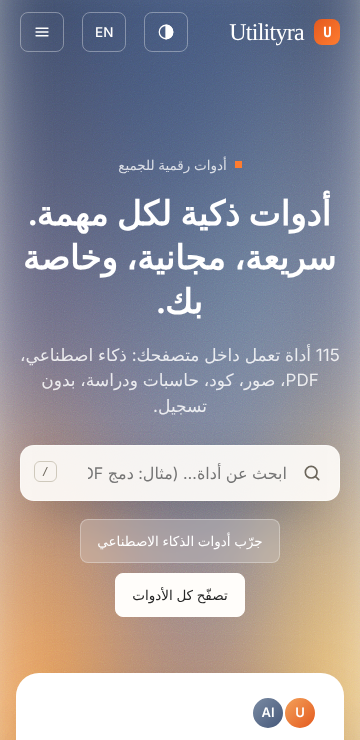
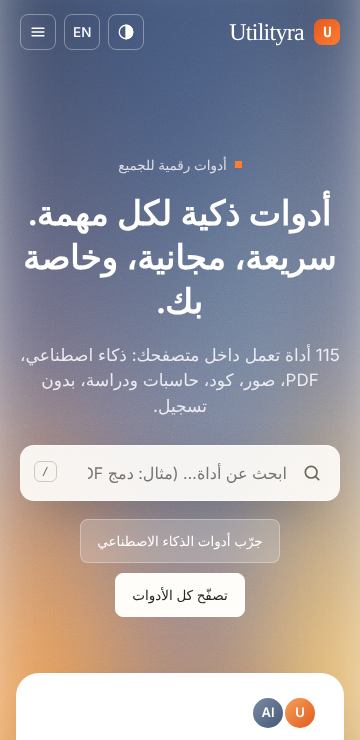
Fix admin login (session cookie), AI provider transparency, offline SW (#14)
* Fix admin login cookie never set; add provider transparency, creator knowledge, offline SW, audit tests

Claude-Session: https://claude.ai/code/session_01XFyGnZQLbsRMmR5Q2gq1Am

* Fix 320px header overflow

Claude-Session: https://claude.ai/code/session_01XFyGnZQLbsRMmR5Q2gq1Am

---------

Changed region(s): [[0.1222, 0.0, 0.3667, 0.0622], [0.3972, 0.0311, 0.4889, 0.0622]]

diff --git a/worker/src/knowledge.generated.js b/worker/src/knowledge.generated.js
@@ -1,2 +1,2 @@
 // Generated by build.mjs - do not edit.
-export const SITE_KNOWLEDGE = "Utilityra facts: free bilingual (Arabic/English) toolbox with 115 tools, each at /tools/<id>/ (categories at /category/<id>/). Most tools run in the browser; AI tools call the server. Admin panel at /admin/ (owner only).\nTOOL CATALOG (id | English | Arabic | category). When a tool fits the user's need, recommend it with its link /tools/<id>/.\nai-assistant | Utilityra AI Assistant | مساعد Utilityra الذكي | AI Tools\nai-summarizer | AI Text Summarizer | ملخّص النصوص بالذكاء الاصطناعي | AI Tools\nai-paraphraser | AI Paraphraser & Tone Changer | إعادة صياغة النصوص | AI Tools\nai-translator | AI Translator | مترجم ذكي | AI Tools\nai-grammar-fixer | AI Grammar & Spelling Fixer | المصحّح اللغوي | AI Tools\nai-email-writer | AI Email Writer | كاتب الرسائل الإلكترونية | AI Tools\nai-code-explainer | AI Code Explainer | شرح الكود | AI Tools\nai-code-debugger | AI Code Debugger | مصلّح الأخطاء البرمجية | AI Tools\nai-regex-generator | AI Regex Generator | مولّد Regex بالوصف | AI Tools\nai-sql-generator | AI SQL Query Generator | مولّد استعلامات SQL | AI Tools\nexcel-formula-helper | AI Excel Formula Helper | مساعد معادلات Excel | AI Tools\nai-quiz-generator | AI Quiz Generator | مولّد الاختبارات | AI Tools\nai-study-explainer | AI Simple Explainer | مبسّط الشرح الدراسي | AI Tools\nai-blog-writer | AI Blog Post Writer | كاتب المقالات | AI Tools\nai-seo-titles | AI SEO Titles & Descriptions | مولّد عناوين وأوصاف SEO | AI Tools\nai-social-posts | AI Social Post Writer | كاتب منشورات التواصل | AI Tools\nai-resume-writer | AI Resume & Cover Letter | كاتب السيرة وخطاب التقديم | AI Tools\nai-product-description | AI Product Description | وصف المنتجات | AI Tools\nai-name-ideas | AI Name Ideas | أفكار الأسماء | AI Tools\nword-counter | Word & Character Counter | عدّاد الكلمات والحروف | Text & Writing\ncase-converter | Case Converter | تحويل حالة الأحرف | Text & Writing\ntext-cleaner | Text Cleaner | منظّف النصوص | Text & Writing\nline-sorter | Line Sorter | ترتيب الأسطر | Text & Writing\nduplicate-line-remover | Duplicate Line Remover | حذف الأسطر المكررة | Text & Writing\nfind-replace | Find & Replace | بحث واستبدال | Text & Writing\ntext-compare | Text Compare (Diff) | مقارنة نصين | Text & Writing\nword-frequency | Word Frequency Counter | تكرار الكلمات | Text & Writing\nreading-time | Reading Time Calculator | وقت القراءة | Text & Writing\nlorem-ipsum-generator | Lorem Ipsum Generator | مولّد نص تجريبي | Text & Writing\nslug-generator | Slug Generator | مولّد الروابط (Slug) | Text & Writing\narabic-diacritics-remover | Arabic Diacritics Remover | حذف التشكيل العربي | Text & Writing\nnumber-to-words | Number to Words | تفقيط الأرقام | Text & Writing\nmarkdown-preview | Markdown Preview | معاينة Markdown | Text & Writing\ntext-to-speech | Text to Speech | تحويل النص إلى صوت | Text & Writing\njson-formatter | JSON Formatter & Validator | منسّق JSON ومدقّقه | Developer Tools\njson-diff | JSON Diff | مقارنة JSON | Developer Tools\njson-to-xml | JSON to XML | JSON إلى XML | Developer Tools\njson-to-csv | JSON to CSV | JSON إلى CSV | Developer Tools\ncsv-json-converter | CSV to JSON | CSV إلى JSON | Developer Tools\ncsv-validator | CSV Validator | مدقّق CSV | Developer Tools\ncsv-to-markdown | CSV to Markdown Table | CSV إلى جدول Markdown | Developer Tools\nmarkdown-table-generator | Markdown Table Generator | مولّد جداول Markdown | Developer Tools\nsql-formatter | SQL Formatter | منسّق SQL | Developer Tools\nxml-formatter | XML Formatter | منسّق XML | Developer Tools\nhtml-formatter | HTML Formatter | منسّق HTML | Developer Tools\ncss-formatter | CSS Formatter & Minifier | منسّق CSS | Developer Tools\nregex-tester | Regex Tester | مختبر Regex | Developer Tools\njwt-decoder | JWT Decoder | فك تشفير JWT | Developer Tools\nbase64-encoder-decoder | Base64 Encoder / Decoder | ترميز Base64 | Developer Tools\nurl-encoder-decoder | URL Encoder / Decoder | ترميز الروابط | Developer Tools\nurl-parser | URL Parser | محلّل الروابط | Developer Tools\nhtml-entities | HTML Entities Encoder | رموز HTML | Developer Tools\nuuid-generator | UUID Generator | مولّد UUID | Developer Tools\ncron-validator | Cron Expression Validator | مدقّق Cron | Developer Tools\ntimestamp-converter | Unix Timestamp Converter | محوّل Timestamp | Developer Tools\npassword-generator | Password Generator | مولّد كلمات المرور | Security & Hashing\npassword-strength-checker | Password Strength Checker | فاحص قوة كلمة المرور | Security & Hashing\nsha256-hash | Hash Generator (SHA) | مولّد البصمات (SHA) | Security & Hashing\nrandom-number-generator | Random Number Generator | مولّد أرقام عشوائية | Security & Hashing\nbinary-hex-converter | Text ↔ Binary / Hex | محوّل ثنائي وست عشري | Security & Hashing\nnumber-base-converter | Number Base Converter | محوّل أنظمة العد | Security & Hashing\nmeta-tag-generator | Meta Tag Generator | مولّد وسوم Meta | SEO & Web\nrobots-txt-generator | robots.txt Generator | مولّد robots.txt | SEO & Web\nsitemap-generator | Sitemap Generator | مولّد sitemap.xml | SEO & Web\nserp-preview | Google SERP Preview | معاينة نتيجة جوجل | SEO & Web\nutm-builder | UTM Link Builder | منشئ روابط UTM | SEO & Web\npercentage-calculator | Percentage Calculator | حاسبة النسبة المئوية | Calculators & Finance\nvat-calculator | VAT Calculator | حاسبة ضريبة القيمة المضافة | Calculators & Finance\ndiscount-calculator | Discount Calculator | حاسبة الخصم | Calculators & Finance\nhourly-pay-calculator | Hourly Pay Calculator | حاسبة الأجر بالساعة | Calculators & Finance\nloan-calculator | Loan Calculator | حاسبة القروض | Calculators & Finance\ncompound-interest | Compound Interest Calculator | حاسبة الفائدة المركبة | Calculators & Finance\nbmi-calculator | BMI Calculator | حاسبة مؤشر كتلة الجسم | Calculators & Finance\nscientific-calculator | Scientific Calculator | الآلة الحاسبة العلمية | Calculators & Finance\nstatistics-calculator | Statistics Calculator | حاسبة الإحصاء | Calculators & Finance\ngrade-calculator | Grade Calculator | حاسبة الدرجات | Students & Study\nweighted-grade-calculator | Weighted Grade Calculator | حاسبة الدرجات الموزونة | Students & Study\ngpa-calculator | GPA Calculator | حاسبة المعدل التراكمي | Students & Study\nstudy-plan-generator | Study Plan Generator | مولّد خطة المذاكرة | Students & Study\nflashcard-maker | Flashcard Maker | بطاقات المراجعة | Students & Study\ncitation-formatter | Citation Formatter | منسّق المراجع | Students & Study\nunit-converter | Unit Converter | محوّل الوحدات | Converters & Time\nfile-size-converter | File Size Converter | محوّل أحجام الملفات | Converters & Time\ntimezone-converter | Time Zone Converter | محوّل المناطق الزمنية | Converters & Time\ndate-difference | Date Difference | الفرق بين تاريخين | Converters & Time\nage-calculator | Age Calculator | حاسبة العمر | Converters & Time\nhijri-converter | Hijri ↔ Gregorian Converter | محوّل التاريخ الهجري والميلادي | Converters & Time\npdf-merge | PDF Merger | دمج ملفات PDF | PDF & Files\npdf-split | PDF Splitter | تقسيم ملف PDF | PDF & Files\npdf-page-info | PDF Info | معلومات ملف PDF | PDF & Files\nimages-to-pdf | Images to PDF | تحويل الصور إلى PDF | PDF & Files\nfile-metadata-inspector | File Metadata Inspector | فاحص بيانات الملف | PDF & Files\nimage-compressor | Image Compressor | ضغط الصور | Images\nimage-resizer | Image Resizer | تغيير مقاس الصور | Images\nimage-converter | Image Format Converter | تحويل صيغ الصور | Images\nimage-cropper | Image Cropper | قص الصور | Images\nimage-rotate-flip | Rotate & Flip Image | تدوير الصور وقلبها | Images\nimage-filter-studio | Image Filter Studio | مرشحات الصور | Images\nimage-watermark | Image Watermark | علامة مائية للصور | Images\nimage-to-data-uri | Image to Data URI | صورة إلى Data URI | Images\ncolor-converter | Color Converter | محوّل الألوان | Design & Color\ngradient-generator | CSS Gradient Generator | مولّد التدرجات | Design & Color\nbox-shadow-generator | Box Shadow Generator | مولّد الظلال | Design & Color\nreverse-text | Reverse Text | عكس النص | Text & Writing\nhtml-preview | HTML Live Preview | معاينة HTML | Developer Tools\napi-tester | API Tester | مختبر واجهات API | Developer Tools\ncontrast-checker | Color Contrast Checker | فاحص تباين الألوان | Design & Color\nfavicon-generator | Favicon Generator | مولّد أيقونة الموقع | Design & Color\npdf-rotate | PDF Rotator | تدوير صفحات PDF | PDF & Files\npdf-to-text | PDF to Text | استخراج نص من PDF | PDF & Files\nseo-auditor | SEO Page Auditor | فاحص السيو للصفحة | SEO & Web\nsecurity-header-checker | Security Headers Checker | فاحص ترويسات الأمان | SEO & Web\npage-speed-checker | Page Speed Checker | فاحص سرعة الصفحة | SEO & Web\naccessibility-checker | Accessibility Checker | فاحص الوصولية | SEO & Web\nqr-code-generator | QR Code Generator | مولّد رمز QR | Design & Color\n\nCHANGELOG / HOW THE SITE EVOLVED:\n";
+export const SITE_KNOWLEDGE = "ABOUT THE SITE OWNER: Utilityra was created by Taha (GitHub: Taha8880, repository Taha8880/Utilityra). Contact page: /contact/. Built as static pages generated by build.mjs plus a Cloudflare Worker (AI gateway, URL inspector, admin API). Do not invent further personal details about the creator.\nUtilityra facts: free bilingual (Arabic/English) toolbox with 115 tools, each at /tools/<id>/ (categories at /category/<id>/). Most tools run in the browser; AI tools call the server. Admin panel at /admin/ (owner only).\nTOOL CATALOG (id | English | Arabic | category). When a tool fits the user's need, recommend it with its link /tools/<id>/.\nai-assistant | Utilityra AI Assistant | مساعد Utilityra الذكي | AI Tools\nai-summarizer | AI Text Summarizer | ملخّص النصوص بالذكاء الاصطناعي | AI Tools\nai-paraphraser | AI Paraphraser & Tone Changer | إعادة صياغة النصوص | AI Tools\nai-translator | AI Translator | مترجم ذكي | AI Tools\nai-grammar-fixer | AI Grammar & Spelling Fixer | المصحّح اللغوي | AI Tools\nai-email-writer | AI Email Writer | كاتب الرسائل الإلكترونية | AI Tools\nai-code-explainer | AI Code Explainer | شرح الكود | AI Tools\nai-code-debugger | AI Code Debugger | مصلّح الأخطاء البرمجية | AI Tools\nai-regex-generator | AI Regex Generator | مولّد Regex بالوصف | AI Tools\nai-sql-generator | AI SQL Query Generator | مولّد استعلامات SQL | AI Tools\nexcel-formula-helper | AI Excel Formula Helper | مساعد معادلات Excel | AI Tools\nai-quiz-generator | AI Quiz Generator | مولّد الاختبارات | AI Tools\nai-study-explainer | AI Simple Explainer | مبسّط الشرح الدراسي | AI Tools\nai-blog-writer | AI Blog Post Writer | كاتب المقالات | AI Tools\nai-seo-titles | AI SEO Titles & Descriptions | مولّد عناوين وأوصاف SEO | AI Tools\nai-social-posts | AI Social Post Writer | كاتب منشورات التواصل | AI Tools\nai-resume-writer | AI Resume & Cover Letter | كاتب السيرة وخطاب التقديم | AI Tools\nai-product-description | AI Product Description | وصف المنتجات | AI Tools\nai-name-ideas | AI Name Ideas | أفكار الأسماء | AI Tools\nword-counter | Word & Character Counter | عدّاد الكلمات والحروف | Text & Writing\ncase-converter | Case Converter | تحويل حالة الأحرف | Text & Writing\ntext-cleaner | Text Cleaner | منظّف النصوص | Text & Writing\nline-sorter | Line Sorter | ترتيب الأسطر | Text & Writing\nduplicate-line-remover | Duplicate Line Remover | حذف الأسطر المكررة | Text & Writing\nfind-replace | Find & Replace | بحث واستبدال | Text & Writing\ntext-compare | Text Compare (Diff) | مقارنة نصين | Text & Writing\nword-frequency | Word Frequency Counter | تكرار الكلمات | Text & Writing\nreading-time | Reading Time Calculator | وقت القراءة | Text & Writing\nlorem-ipsum-generator | Lorem Ipsum Generator | مولّد نص تجريبي | Text & Writing\nslug-generator | Slug Generator | مولّد الروابط (Slug) | Text & Writing\narabic-diacritics-remover | Arabic Diacritics Remover | حذف التشكيل العربي | Text & Writing\nnumber-to-words | Number to Words | تفقيط الأرقام | Text & Writing\nmarkdown-preview | Markdown Preview | معاينة Markdown | Text & Writing\ntext-to-speech | Text to Speech | تحويل النص إلى صوت | Text & Writing\njson-formatter | JSON Formatter & Validator | منسّق JSON ومدقّقه | Developer Tools\njson-diff | JSON Diff | مقارنة JSON | Developer Tools\njson-to-xml | JSON to XML | JSON إلى XML | Developer Tools\njson-to-csv | JSON to CSV | JSON إلى CSV | Developer Tools\ncsv-json-converter | CSV to JSON | CSV إلى JSON | Developer Tools\ncsv-validator | CSV Validator | مدقّق CSV | Developer Tools\ncsv-to-markdown | CSV to Markdown Table | CSV إلى جدول Markdown | Developer Tools\nmarkdown-table-generator | Markdown Table Generator | مولّد جداول Markdown | Developer Tools\nsql-formatter | SQL Formatter | منسّق SQL | Developer Tools\nxml-formatter | XML Formatter | منسّق XML | Developer Tools\nhtml-formatter | HTML Formatter | منسّق HTML | Developer Tools\ncss-formatter | CSS Formatter & Minifier | منسّق CSS | Developer Tools\nregex-tester | Regex Tester | مختبر Regex | Developer Tools\njwt-decoder | JWT Decoder | فك تشفير JWT | Developer Tools\nbase64-encoder-decoder | Base64 Encoder / Decoder | ترميز Base64 | Developer Tools\nurl-encoder-decoder | URL Encoder / Decoder | ترميز الروابط | Developer Tools\nurl-parser | URL Parser | محلّل الروابط | Developer Tools\nhtml-entities | HTML Entities Encoder | رموز HTML | Developer Tools\nuuid-generator | UUID Generator | مولّد UUID | Developer Tools\ncron-validator | Cron Expression Validator | مدقّق Cron | Developer Tools\ntimestamp-converter | Unix Timestamp Converter | محوّل Timestamp | Developer Tools\npassword-generator | Password Generator | مولّد كلمات المرور | Security & Hashing\npassword-strength-checker | Password Strength Checker | فاحص قوة كلمة المرور | Security & Hashing\nsha256-hash | Hash Generator (SHA) | مولّد البصمات (SHA) | Security & Hashing\nrandom-number-generator | Random Number Generator | مولّد أرقام عشوائية | Security & Hashing\nbinary-hex-converter | Text ↔ Binary / Hex | محوّل ثنائي وست عشري | Security & Hashing\nnumber-base-converter | Number Base Converter | محوّل أنظمة العد | Security & Hashing\nmeta-tag-generator | Meta Tag Generator | مولّد وسوم Meta | SEO & Web\nrobots-txt-generator | robots.txt Generator | مولّد robots.txt | SEO & Web\nsitemap-generator | Sitemap Generator | مولّد sitemap.xml | SEO & Web\nserp-preview | Google SERP Preview | معاينة نتيجة جوجل | SEO & Web\nutm-builder | UTM Link Builder | منشئ روابط UTM | SEO & Web\npercentage-calculator | Percentage Calculator | حاسبة النسبة المئوية | Calculators & Finance\nvat-calculator | VAT Calculator | حاسبة ضريبة القيمة المضافة | Calculators & Finance\ndiscount-calculator | Discount Calculator | حاسبة الخصم | Calculators & Finance\nhourly-pay-calculator | Hourly Pay Calculator | حاسبة الأجر بالساعة | Calculators & Finance\nloan-calculator | Loan Calculator | حاسبة القروض | Calculators & Finance\ncompound-interest | Compound Interest Calculator | حاسبة الفائدة المركبة | Calculators & Finance\nbmi-calculator | BMI Calculator | حاسبة مؤشر كتلة الجسم | Calculators & Finance\nscientific-calculator | Scientific Calculator | الآلة الحاسبة العلمية | Calculators & Finance\nstatistics-calculator | Statistics Calculator | حاسبة الإحصاء | Calculators & Finance\ngrade-calculator | Grade Calculator | حاسبة الدرجات | Students & Study\nweighted-grade-calculator | Weighted Grade Calculator | حاسبة الدرجات الموزونة | Students & Study\ngpa-calculator | GPA Calculator | حاسبة المعدل التراكمي | Students & Study\nstudy-plan-generator | Study Plan Generator | مولّد خطة المذاكرة | Students & Study\nflashcard-maker | Flashcard Maker | بطاقات المراجعة | Students & Study\ncitation-formatter | Citation Formatter | منسّق المراجع | Students & Study\nunit-converter | Unit Converter | محوّل الوحدات | Converters & Time\nfile-size-converter | File Size Converter | محوّل أحجام الملفات | Converters & Time\ntimezone-converter | Time Zone Converter | محوّل المناطق الزمنية | Converters & Time\ndate-difference | Date Difference | الفرق بين تاريخين | Converters & Time\nage-calculator | Age Calculator | حاسبة العمر | Converters & Time\nhijri-converter | Hijri ↔ Gregorian Converter | محوّل التاريخ الهجري والميلادي | Converters & Time\npdf-merge | PDF Merger | دمج ملفات PDF | PDF & Files\npdf-split | PDF Splitter | تقسيم ملف PDF | PDF & Files\npdf-page-info | PDF Info | معلومات ملف PDF | PDF & Files\nimages-to-pdf | Images to PDF | تحويل الصور إلى PDF | PDF & Files\nfile-metadata-inspector | File Metadata Inspector | فاحص بيانات الملف | PDF & Files\nimage-compressor | Image Compressor | ضغط الصور | Images\nimage-resizer | Image Resizer | تغيير مقاس الصور | Images\nimage-converter | Image Format Converter | تحويل صيغ الصور | Images\nimage-cropper | Image Cropper | قص الصور | Images\nimage-rotate-flip | Rotate & Flip Image | تدوير الصور وقلبها | Images\nimage-filter-studio | Image Filter Studio | مرشحات الصور | Images\nimage-watermark | Image Watermark | علامة مائية للصور | Images\nimage-to-data-uri | Image to Data URI | صورة إلى Data URI | Images\ncolor-converter | Color Converter | محوّل الألوان | Design & Color\ngradient-generator | CSS Gradient Generator | مولّد التدرجات | Design & Color\nbox-shadow-generator | Box Shadow Generator | مولّد الظلال | Design & Color\nreverse-text | Reverse Text | عكس النص | Text & Writing\nhtml-preview | HTML Live Preview | معاينة HTML | Developer Tools\napi-tester | API Tester | مختبر واجهات API | Developer Tools\ncontrast-checker | Color Contrast Checker | فاحص تباين الألوان | Design & Color\nfavicon-generator | Favicon Generator | مولّد أيقونة الموقع | Design & Color\npdf-rotate | PDF Rotator | تدوير صفحات PDF | PDF & Files\npdf-to-text | PDF to Text | استخراج نص من PDF | PDF & Files\nseo-auditor | SEO Page Auditor | فاحص السيو للصفحة | SEO & Web\nsecurity-header-checker | Security Headers Checker | فاحص ترويسات الأمان | SEO & Web\npage-speed-checker | Page Speed Checker | فاحص سرعة الصفحة | SEO & Web\naccessibility-checker | Accessibility Checker | فاحص الوصولية | SEO & Web\nqr-code-generator | QR Code Generator | مولّد رمز QR | Design & Color\n\nCHANGELOG / HOW THE SITE EVOLVED:\n";

diff --git a/worker/src/index.js b/worker/src/index.js
@@ -56,8 +56,8 @@ export const _resetRate = () => buckets.clear();
 function corsHeaders(origin) {
   return origin ? { "access-control-allow-origin": origin, "access-control-allow-methods": "GET, POST, OPTIONS", "access-control-allow-headers": "content-type", "access-control-max-age": "86400", vary: "Origin" } : {};
 }
-function json(data, status = 200, origin = "") {
-  return new Response(JSON.stringify(data), { status, headers: { "content-type": "application/json; charset=utf-8", "cache-control": "no-store", "x-content-type-options": "nosniff", ...corsHeaders(origin) } });
+function json(data, status = 200, origin = "", extra = {}) {
+  return new Response(JSON.stringify(data), { status, headers: { "content-type": "application/json; charset=utf-8", "cache-control": "no-store", "x-content-type-options": "nosniff", ...corsHeaders(origin), ...extra } });
 }
 function allowedOrigin(request, env) {
   const origin = request.headers.get("origin");
@@ -195,11 +195,10 @@ export function providersFor(env) {
   return order.filter((k) => all[k][0]).map((k) => [k, all[k][1]]);
 }
 
-const sse = (chunks, sources = []) => new Response(new ReadableStream({ start(c) { const e = new TextEncoder(); if (sources.length) c.enqueue(e.encode(`data: ${JSON.stringify({ sources })}\n\n`)); for (const t of chunks) c.enqueue(e.encode(`data: ${JSON.stringify({ response: t })}\n\n`)); c.enqueue(e.encode("data: [DONE]\n\n")); c.close(); } }), { headers: { "content-type": "text/event-stream; charset=utf-8", "cache-control": "no-store", "x-content-type-options": "nosniff" } });
-function withSources(st, sources) {
-  if (!sources.length) return st;
+const sse = (chunks, sources = [], provider = "") => new Response(new ReadableStream({ start(c) { const e = new TextEncoder(); if (provider) c.enqueue(e.encode(`data: ${JSON.stringify({ provider })}\n\n`)); if (sources.length) c.enqueue(e.encode(`data: ${JSON.stringify({ sources })}\n\n`)); for (const t of chunks) c.enqueue(e.encode(`data: ${JSON.stringify({ response: t })}\n\n`)); c.enqueue(e.encode("data: [DONE]\n\n")); c.close(); } }), { headers: { "content-type": "text/event-stream; charset=utf-8", "cache-control": "no-store", "x-content-type-options": "nosniff" } });
+function withSources(st, sources, provider = "") {
   const e = new TextEncoder(); const r = st.getReader(); let sent = false;
-  return new ReadableStream({ async pull(c) { if (!sent) { sent = true; c.enqueue(e.encode(`data: ${JSON.stringify({ sources })}\n\n`)); return; } const { done, value } = await r.read(); if (done) c.close(); else c.enqueue(value); }, cancel() { r.cancel(); } });
+  return new ReadableStream({ async pull(c) { if (!sent) { sent = true; c.enqueue(e.encode(`data: ${JSON.stringify({ provider, ...(sources.length ? { sources } : {}) })}\n\n`)); return; } const { done, value } = await r.read(); if (done) c.close(); else c.enqueue(value); }, cancel() { r.cancel(); } });
 }
 async function cacheKey(body) {
   const raw = JSON.stringify([body.tool, body.message, body.options || {}, body.lang || "ar"]);
@@ -229,17 +228,17 @@ async function handleAI(request, env, origin) {
   const gen = genFor(body.tool), wantStream = body.stream === true;
   // Short-lived cache for identical single-shot requests (never for chat, which depends on history).
   const cacheable = body.tool !== "ai-assistant" && typeof caches !== "undefined" && caches.default;
-  let ck; if (cacheable) { try { ck = new Request(await cacheKey(body)); const hit = await caches.default.match(ck); if (hit) { const j = await hit.json(); return wantStream ? sse([j.answer]) : json({ ...j, cached: true }, 200, origin); } } catch { ck = null; } }
+  let ck; if (cacheable) { try { ck = new Request(await cacheKey(body)); const hit = await caches.default.match(ck); if (hit) { const j = await hit.json(); return wantStream ? sse([j.answer], [], j.provider || "") : json({ ...j, cached: true }, 200, origin); } } catch { ck = null; } }
   let lastErr;
   for (const [name, fn] of providers) {
     try {
       // Native Workers AI streaming (SSE passthrough); other providers answer as a single SSE chunk.
       if (wantStream && name === "workers-ai" && env.AI && typeof env.AI.run === "function") {
-        try { const st = await env.AI.run(env.WORKERS_AI_MODEL || MODELS.primary, { messages, max_tokens: gen.max_tokens, temperature: gen.temperature, stream: true }, env.AI_GATEWAY_ID ? { gateway: { id: env.AI_GATEWAY_ID } } : undefined); if (st && typeof st.getReader === "function") return new Response(withSources(st, srcPub), { headers: { "content-type": "text/event-stream; charset=utf-8", "cache-control": "no-store", "x-content-type-options": "nosniff", ...corsHeaders(origin) } }); } catch { /* fall back to non-streaming */ }
+        try { const st = await env.AI.run(env.WORKERS_AI_MODEL || MODELS.primary, { messages, max_tokens: gen.max_tokens, temperature: gen.temperature, stream: true }, env.AI_GATEWAY_ID ? { gateway: { id: env.AI_GATEWAY_ID } } : undefined); if (st && typeof st.getReader === "function") return new Response(withSources(st, srcPub, "workers-ai"), { headers: { "content-type": "text/event-stream; charset=utf-8", "cache-control": "no-store", "x-content-type-options": "nosniff", ...corsHeaders(origin) } }); } catch { /* fall back to non-streaming */ }
       }
       const answer = await fn(messages, env, gen);
       if (ck) { try { await caches.default.put(ck, new Response(JSON.stringify({ answer, provider: name }), { headers: { "content-type": "application/json", "cache-control": "public, max-age=3600" } })); } catch { /* ignore */ } }
-      return wantStream ? sse([answer], srcPub) : json({ answer, provider: name, ...(srcPub.length ? { sources: srcPub } : {}) }, 200, origin);
+      return wantStream ? sse([answer], srcPub, name) : json({ answer, provider: name, ...(srcPub.length ? { sources: srcPub } : {}) }, 200, origin);
     } catch (e) { lastErr = e; if (e.status === 429) break; }
   }
   return json({ error: lastErr?.message === "PROVIDER_NOT_CONFIGURED" ? "PROVIDER_NOT_CONFIGURED" : "UPSTREAM_ERROR" }, lastErr?.status === 429 ? 429 : 502, origin);

diff --git a/src/assets/js/tools/01-ai.js b/src/assets/js/tools/01-ai.js
@@ -47,6 +47,7 @@
       box.addEventListener('input', () => { cnt.textContent = box.value.length + ' / 6000'; });
       const decorate = (el) => { h.$$('pre', el).forEach((pre) => { if (pre.querySelector('.cpy')) return; pre.style.position = 'relative'; const b = document.createElement('button'); b.type = 'button'; b.className = 'mini cpy'; b.textContent = h.t('نسخ', 'Copy'); b.style.cssText = 'position:absolute;top:6px;inset-inline-end:6px'; b.addEventListener('click', () => { h.copy(pre.innerText.replace(new RegExp(b.textContent + '$'), '').trim()); b.textContent = '✓'; setTimeout(() => { b.textContent = h.t('نسخ', 'Copy'); }, 1200); }); pre.appendChild(b); }); };
       const srcHtml = (src) => (src && src.length ? `<div class="srcs"><b>${h.t('المصادر:', 'Sources:')}</b> ${src.map((x, i) => `[${i + 1}] <a href="${h.esc(x.url)}" target="_blank" rel="noopener noreferrer">${h.esc(x.title)}</a>`).join(' · ')}</div>` : '');
+      const provHtml = (p) => { if (!p) return ''; const names = { 'workers-ai': h.t('نموذج مجاني (Workers AI)', 'Free model (Workers AI)'), anthropic: 'Claude', openai: 'OpenAI', gemini: 'Gemini' }; const weak = p === 'workers-ai'; return `<div class="srcs prov">${h.t('أجاب:', 'Answered by:')} <b>${h.esc(names[p] || p)}</b>${weak ? ' — ' + h.t('هذا النموذج أضعف. لإجابات أقوى أضف مفتاح Claude أو OpenAI أو Gemini في إعدادات الـ Worker (راجع docs/DEPLOY_AR.md).', 'This model is weaker. For stronger answers add a Claude, OpenAI or Gemini key to the Worker (see docs/DEPLOY_AR.md).') : ''}</div>`; };
       const add = (who, html) => { const m = document.createElement('div'); m.className = 'msg ' + who; m.innerHTML = '<div class="bubble">' + html + '</div>'; log.appendChild(m); log.scrollTop = log.scrollHeight; return m; };
       const render = () => { log.innerHTML = ''; add('bot', h.L('أهلًا! اسألني عن أي شيء، داخل الموقع أو خارجه. أتذكّر محادثاتنا السابقة دون عرضها هنا، وأستخدم مصادر موثّقة عند الإمكان، وأقول بصراحة عندما لا أعرف.', "Hi! Ask me anything, on this site or beyond. I remember our earlier chats without listing them here, use cited sources when possible, and say so when I don't know.")); hist.forEach((m) => { const e = add(m.role === 'user' ? 'user' : 'bot', m.role === 'user' ? h.esc(m.content).replace(/\n/g, '<br>') : h.md(m.content) + srcHtml(m.sources)); decorate(e); }); };
       render();
@@ -54,10 +55,10 @@
       box.addEventListener('keydown', (e) => { if (e.key === 'Enter' && !e.shiftKey && !e.isComposing) { e.preventDefault(); form.requestSubmit(); } });
       let busy = false;
       async function ask(q) {
-        busy = true; const wait = add('bot', '<span class="dots"><i></i><i></i><i></i></span>'); const bub = wait.querySelector('.bubble'); let src = [];
+        busy = true; const wait = add('bot', '<span class="dots"><i></i><i></i><i></i></span>'); const bub = wait.querySelector('.bubble'); let src = [], prov = '';
         try {
-          const a = await h.aiStream({ tool: 'ai-assistant', message: q, history: hist.slice(0, -1).slice(-16).map((m) => ({ role: m.role, content: m.content })), memory: [mem.value.trim(), pastText()].filter(Boolean).join('\n\n'), ground: gr.checked, tz: (Intl.DateTimeFormat().resolvedOptions().timeZone || 'UTC') }, (txt) => { bub.innerHTML = h.md(txt); log.scrollTop = log.scrollHeight; }, (s) => { src = s; });
-          bub.innerHTML = h.md(a) + srcHtml(src); decorate(bub); hist.push({ role: 'assistant', content: a, sources: src.length ? src : undefined });
+          const a = await h.aiStream({ tool: 'ai-assistant', message: q, history: hist.slice(0, -1).slice(-16).map((m) => ({ role: m.role, content: m.content })), memory: [mem.value.trim(), pastText()].filter(Boolean).join('\n\n'), ground: gr.checked, tz: (Intl.DateTimeFormat().resolvedOptions().timeZone || 'UTC') }, (txt) => { bub.innerHTML = h.md(txt); log.scrollTop = log.scrollHeight; }, (s) => { src = s; }, (m) => { prov = m.provider || ''; });
+          bub.innerHTML = h.md(a) + srcHtml(src) + provHtml(prov); decorate(bub); hist.push({ role: 'assistant', content: a, sources: src.length ? src : undefined });
         } catch (err) { bub.innerHTML = '<span class="err">' + h.esc(err.message) + '</span>'; hist.pop(); }
         store.set('ur-chat', hist.slice(-40)); busy = false; log.scrollTop = log.scrollHeight;
       }

diff --git a/src/assets/js/tools/00-core.js b/src/assets/js/tools/00-core.js
@@ -115,20 +115,20 @@
     return j.answer || '';
   }
 
-  async function aiStream(body, onDelta, onSources) {
+  async function aiStream(body, onDelta, onSources, onMeta) {
     let r;
     try { r = await fetch((CFG.apiBase || '') + '/api/ai', { method: 'POST', headers: { 'content-type': 'application/json' }, body: JSON.stringify(Object.assign({ lang: lang(), stream: true }, body)) }); } catch (e) { throw new Error(aiErrorMessage(0)); }
     const ct = r.headers.get('content-type') || '';
     if (!r.ok || ct.includes('application/json')) {
       const j = await r.json().catch(() => ({})); if (!r.ok) throw new Error(aiErrorMessage(r.status, j.error));
-      if (j.sources && onSources) onSources(j.sources); onDelta(j.answer || '', true); return j.answer || '';
+      if (j.sources && onSources) onSources(j.sources); if (j.provider && onMeta) onMeta({ provider: j.provider }); onDelta(j.answer || '', true); return j.answer || '';
     }
     const rd = r.body.getReader(), dec = new TextDecoder(); let buf = '', full = '';
     for (;;) {
       const { done, value } = await rd.read(); if (done) break; buf += dec.decode(value, { stream: true });
       let i; while ((i = buf.indexOf('\n\n')) >= 0) {
         const ev = buf.slice(0, i); buf = buf.slice(i + 2);
-        for (const line of ev.split('\n')) { if (!line.startsWith('data:')) continue; const d = line.slice(5).trim(); if (!d || d === '[DONE]') continue; try { const j = JSON.parse(d); if (j.sources && onSources) onSources(j.sources); if (typeof j.response === 'string' && j.response) { full += j.response; onDelta(full, false); } } catch (e) { /* ignore partial */ } }
+        for (const line of ev.split('\n')) { if (!line.startsWith('data:')) continue; const d = line.slice(5).trim(); if (!d || d === '[DONE]') continue; try { const j = JSON.parse(d); if (j.sources && onSources) onSources(j.sources); if (j.provider && onMeta) onMeta({ provider: j.provider }); if (typeof j.response === 'string' && j.response) { full += j.response; onDelta(full, false); } } catch (e) { /* ignore partial */ } }
       }
     }
     if (!full) throw new Error(aiErrorMessage(502));

diff --git a/src/assets/js/app.js b/src/assets/js/app.js
@@ -157,6 +157,9 @@
     } catch (e) { /* ignore */ }
   })();
 
+  /* ---------- offline support (service worker) ---------- */
+  try { if ('serviceWorker' in navigator && location.protocol === 'https:' && !/^\/admin/.test(location.pathname)) addEventListener('load', () => navigator.serviceWorker.register('/sw.js').catch(() => {})); } catch (e) { /* optional */ }
+
   /* ---------- tool page ---------- */
   const tr = $('#tool-root');
   if (tr && window.UT) { try { window.UT.mount(tr, tr.dataset.tool); } catch (e) { tr.innerHTML = '<p class="tool-status err">Could not start this tool: ' + String(e.message).replace(/</g, '&lt;') + '</p>'; console.error(e); } document.body.dataset.toolReady = '1'; }

diff --git a/src/assets/css/app.css b/src/assets/css/app.css
@@ -265,3 +265,4 @@ input[type="file"]::file-selector-button:hover { filter: brightness(1.08); }
 .memo { margin: 8px 0; } .memo summary { cursor: pointer; font-weight: 600; } .memo textarea { width: 100%; margin-top: 8px; }
 .ck { display: inline-flex; gap: 6px; align-items: center; font-size: 13.5px; }
 .bubble pre { overflow: auto; padding: 12px; padding-top: 30px; border-radius: 10px; background: var(--paper); direction: ltr; text-align: left; }
+@media (max-width: 380px) { .hdr .in { gap: 8px; } .hbtn { min-width: 36px; height: 36px; padding: 6px 8px; } }

diff --git a/docs/test-logs/e2e-latest.md b/docs/test-logs/e2e-latest.md
@@ -1,8 +1,8 @@
 # E2E test log
 
-Generated: 2026-10-24T17:44:45.614Z
+Generated: 2026-10-24T19:32:01.822Z
 
-**293/293 passed**, 0 failed.
+**295/295 passed**, 0 failed.
 
 | test | result | note |
 |---|---|---|
@@ -299,3 +299,5 @@ Generated: 2026-10-24T17:44:45.614Z
 | overflow:desk:dark:en:/tools/ | PASS | overflow 0px |
 | overflow:desk:dark:en:/tools/qr-code-generator/ | PASS | overflow 0px |
 | overflow:desk:dark:en:/tools/ai-assistant/ | PASS | overflow 0px |
+| overflow-320:all-pages(121) | PASS |  |
+| a11y:keyboard-reaches-run-button | PASS |  |
